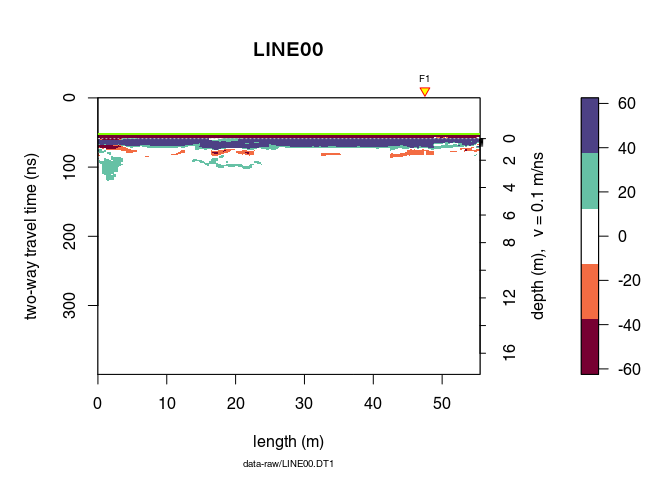
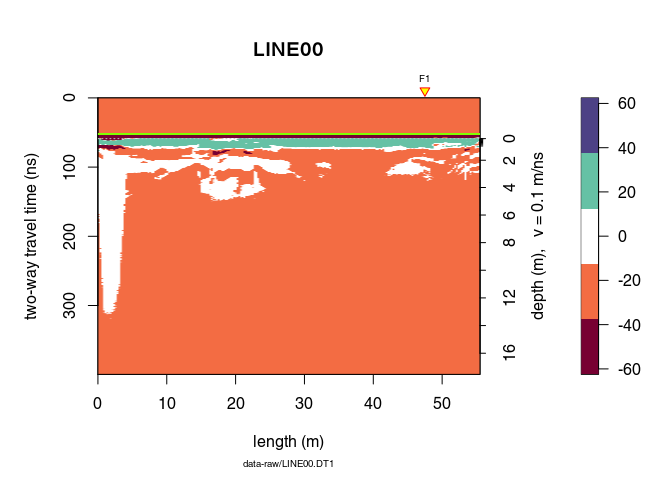
add explanations for multi-plots and plot annotations

diff --git a/01_RGPR_tutorial_plot-GPR-data.md b/01_RGPR_tutorial_plot-GPR-data.md
@@ -1,7 +1,7 @@
 ---
 layout: page
 title: Plot GPR data
-date: 2020-05-20
+date: 2021-02-16
 ---
 
 <!--
@@ -26,6 +26,8 @@ Table of Contents
     -   [Two-dimensional plot: radargramm](#two-dimensional-plot-radargramm)
         -   [Raster plot](#raster-plot)
         -   [Wiggle plot](#wiggle-plot)
+        -   [Multi-plots](#multi-plots)
+        -   [Annotate plots](#annotate-plots)
     -   [One-dimensional plot](#one-dimensional-plot)
         -   [Single trace plot](#single-trace-plot)
         -   [Multiple trace plot](#multiple-trace-plot)
@@ -45,7 +47,50 @@ Install/load `RGPR`
 ``` r
 # install "devtools" if not already done
 if(!require("devtools")) install.packages("devtools")
+```
+
+    ## Error in get(genname, envir = envir): object 'testthat_print' not found
+
+``` r
 devtools::install_github("emanuelhuber/RGPR")
+```
+
+    ## dotCall64 (1.0-0    -> 1.0-1) [CRAN]
+    ## lifecycle (0.2.0    -> 1.0.0) [CRAN]
+    ## cachem    (1.0.3    -> 1.0.4) [CRAN]
+    ## promises  (1.1.1    -> 1.2.0.1) [CRAN]
+    ## mime      (0.9      -> 0.10) [CRAN]
+    ## xfun      (0.20     -> 0.21) [CRAN]
+    ## rgl       (0.104.16 -> 0.105.13) [CRAN]
+    ##
+       checking for file ‘/tmp/RtmpkWGtim/remotes487b4c994bd4/emanuelhuber-RGPR-0e71d9a/DESCRIPTION’...
+
+    ✔  checking for file ‘/tmp/RtmpkWGtim/remotes487b4c994bd4/emanuelhuber-RGPR-0e71d9a/DESCRIPTION’
+    ##
+
+    ─  preparing ‘RGPR’:
+    ##
+
+       checking DESCRIPTION meta-information...
+
+    ✔  checking DESCRIPTION meta-information
+    ##
+
+    ─  checking for LF line-endings in source and make files and shell scripts
+    ##
+
+    ─  checking for empty or unneeded directories
+    ##
+
+
+
+    ─  building ‘RGPR_0.0.7.tar.gz’
+    ##
+
+
+    ##
+
+``` r
 library(RGPR)       # load RGPR in the current R session
 ```
 
@@ -210,6 +255,60 @@ plot(x, note = "", main = "", ylab = "", xlab = "", clab = "")
 
 ![](01_RGPR_tutorial_plot-GPR-data_tp_files/figure-markdown_github/withoutlabels-1.png)
 
+### Multi-plots
+
+Use `par(mfrow = c(nr, nc))`, where `ncr` is the number of rows and `nc` is the number of column. Example:
+
+``` r
+x <- frenkeLine00
+
+par(mfrow = c(2,2), oma = c(0, 0, 0, 0))
+plot(x)
+plot(x, col = palGPR("nice"))
+plot(x, col = palGPR("sunny"))
+plot(x, col = palGPR("hcl_0"))
+```
+
+![](01_RGPR_tutorial_plot-GPR-data_tp_files/figure-markdown_github/mutliplotGPR-1.png)
+
+### Annotate plots
+
+Here an example on how to annotate plots:
+
+``` r
+x <- frenkeLine00
+
+plot(x)
+rect(xleft = 35,
+     ybottom = 120,
+     xright = 45,
+     ytop = 50,
+     border = "firebrick",
+     lty = 3,   # line style: 1 = continuous line
+     lwd = 2)   # width
+# text annotation
+text(45, 50, "A20-21Z", adj = c(0, 0))
+#grid
+grid(col = "red")
+# point
+points(50, 300, pch = 21, col = "red", lwd = 2)
+# horizontal and vertical linges
+abline(h = 300, v = 30, col = "black", lty = 2, lwd = 3)
+
+# For circles, squares and stars the units of the x axis are used
+# circles
+symbols(30, 300, circles = 10,
+        add = TRUE, lwd = 2, fg = "dodgerblue", inches = FALSE, lty = 1)
+# rectangles
+symbols(5, 200, rectangles = matrix(c(5, 200), nrow = 1, ncol = 2),
+        add = TRUE, lwd = 3, fg = "dodgerblue", inches = FALSE, lty = 3)
+# stars
+symbols(20, 150, stars = matrix(c(0.35, 1, 0.35, 1,  0.35, 1,  0.35, 1, 0.35, 1), nrow = 1),
+        add = TRUE, lwd = 1, bg = "goldenrod1", fg = "black", inches = FALSE, lty = 1)
+```
+
+![](01_RGPR_tutorial_plot-GPR-data_tp_files/figure-markdown_github/annotation2D-1.png)
+
 One-dimensional plot
 --------------------
 
@@ -273,8 +372,6 @@ Let's have a look at the amplitude-frequency and phase-frequency plot (the spect
 spec(x)
 ```
 
-    ## Soon deprecated. Use 'spec1D()' or 'spec2D()' instead
-
 ![plot spectrum](01_RGPR_tutorial_plot-GPR-data_tp_files/figure-markdown_github/fFilter_spectrum-1.png)
 
 Frequency-wavenumber filter (f-k-filter)
@@ -285,8 +382,6 @@ The function `spec()` with the argument `type = "f-k` returns a list containing 
 ``` r
 spec(x, type = "f-k")
 ```
-
-    ## Soon deprecated. Use 'spec1D()' or 'spec2D()' instead
 
 ![plot fk-filter](01_RGPR_tutorial_plot-GPR-data_tp_files/figure-markdown_github/fkspec-1.png)
 
